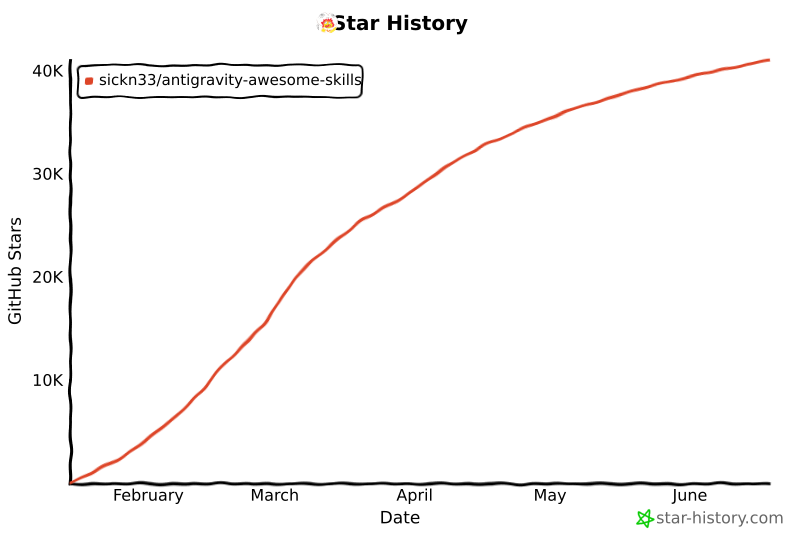
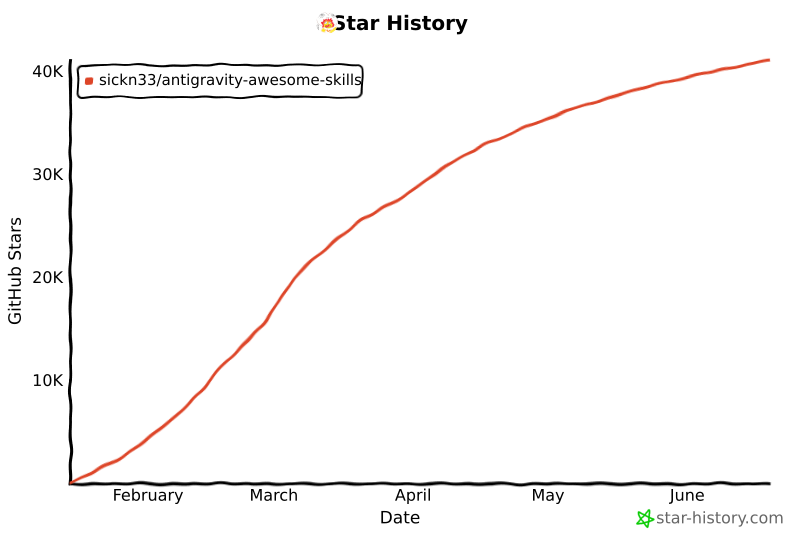
chore: update star history chart

diff --git a/README.md b/README.md
@@ -510,14 +510,14 @@ We officially thank the following contributors for their help in making this rep
 ## Star History
 
 <a href="https://www.star-history.com/#sickn33/antigravity-awesome-skills&type=date&legend=top-left">
- <img alt="Star History Chart" src="https://api.star-history.com/svg?repos=sickn33/antigravity-awesome-skills&type=date&legend=top-left&cache_bust=202606190754" />
+ <img alt="Star History Chart" src="https://api.star-history.com/svg?repos=sickn33/antigravity-awesome-skills&type=date&legend=top-left&cache_bust=202606200722" />
 </a>
 
 <a href="https://www.star-history.com/sickn33/antigravity-awesome-skills">
  <picture>
-   <source media="(prefers-color-scheme: dark)" srcset="https://api.star-history.com/chart?repos=sickn33/antigravity-awesome-skills&style=landscape1&theme=dark&cache_bust=202606190754" />
-   <source media="(prefers-color-scheme: light)" srcset="https://api.star-history.com/chart?repos=sickn33/antigravity-awesome-skills&style=landscape1&cache_bust=202606190754" />
-   <img alt="Star History Chart" src="https://api.star-history.com/chart?repos=sickn33/antigravity-awesome-skills&style=landscape1&cache_bust=202606190754" />
+   <source media="(prefers-color-scheme: dark)" srcset="https://api.star-history.com/chart?repos=sickn33/antigravity-awesome-skills&style=landscape1&theme=dark&cache_bust=202606200722" />
+   <source media="(prefers-color-scheme: light)" srcset="https://api.star-history.com/chart?repos=sickn33/antigravity-awesome-skills&style=landscape1&cache_bust=202606200722" />
+   <img alt="Star History Chart" src="https://api.star-history.com/chart?repos=sickn33/antigravity-awesome-skills&style=landscape1&cache_bust=202606200722" />
  </picture>
 </a>
 
